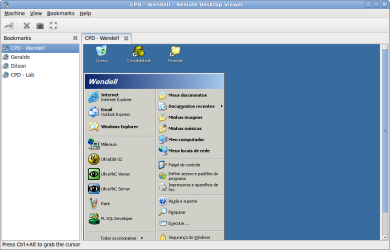
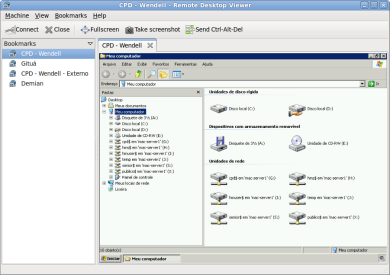
Updated vinagre website
svn path=/trunk/; revision=6334

diff --git a/www.gnome.org/projects/vinagre/screenshots.html b/www.gnome.org/projects/vinagre/screenshots.html
@@ -50,12 +50,13 @@
       <div class="rowOfBoxes">
         <div class="twoThirds noBorderOnLeft">
           <h1>Everybody likes screenshots!</h1>
-          <p><a href="vinagre1g.png"><img border="0" src="vinagre1p.png" alt="picture 1" /></a><br />
+
+          <p><a href="vinagre1g.png"><img border="0" src="vinagre1p.png" alt="picture 1" title="Click to enlarge" /></a><br />
             Vinagre connected to a windows machine
           </p>
 
-          <p><img border="0" src="vinagre2.png" alt="picture 2" /></a><br />
-            Connection dialog
+          <p><a href="vinagre6g.png"><img border="0" src="vinagre6p.png" alt="picture 6" title="Click to enlarge" /></a><br />
+            Full screen mode. Notice the toolbar at the top, which appears when you move the mouse to the top of the screen
           </p>
 
           <p><img border="0" src="vinagre3.png" alt="picture 3" /></a><br />
@@ -66,14 +67,18 @@
             Dialog asking for the vnc password
           </p>
 
+          <p><img border="0" src="vinagre5.png" alt="picture 5" /></a><br />
+            Panel applet allowing quick access to your bookmarks
+          </p>
+
         </div>
 
         <div class="oneThird">
           <h1>Latest News</h1>
 
-          <span class="newsHeading">0.5 version released</span>
-          <p class="newsDate">10 Mar 2008</p>
-          <p class="newsSummary">This is the version for GNOME 2.22.</p>
+          <span class="newsHeading">Version 2.24 released</span>
+          <p class="newsDate">23 Sep 2008</p>
+          <p class="newsSummary">This is the version for GNOME 2.24.</p>
 
           <span class="newsHeading">Report Bugs</span>
           <p class="newsDate">Yes, Vinagre has bugs!</p>

diff --git a/www.gnome.org/projects/vinagre/downloads.html b/www.gnome.org/projects/vinagre/downloads.html
@@ -51,8 +51,8 @@
         <div class="twoThirds noBorderOnLeft">
           <h1>Download Vinagre!</h1>
           <p><b>Latest:</b> <br />
-            Version 0.5, released at 10-Mar-2008 <br />
-            <a href="http://ftp.gnome.org/pub/GNOME/sources/vinagre/0.5/vinagre-0.5.0.tar.gz">vinagre-0.5.0.tar.gz</a>
+            Version 2.24.0, released at 22-Sep-2008 <br />
+            <a href="http://ftp.gnome.org/pub/GNOME/sources/vinagre/2.24/vinagre-2.24.0.tar.gz">vinagre-2.24.0.tar.gz</a>
           </p>
 
           <p><b>History:</b> <br />
@@ -79,9 +79,9 @@
         <div class="oneThird">
           <h1>Latest News</h1>
 
-          <span class="newsHeading">0.5 version released</span>
-          <p class="newsDate">10 Mar 2008</p>
-          <p class="newsSummary">This is the version for GNOME 2.22.</p>
+          <span class="newsHeading">Version 2.24 released</span>
+          <p class="newsDate">23 Sep 2008</p>
+          <p class="newsSummary">This is the version for GNOME 2.24.</p>
 
           <span class="newsHeading">Report Bugs</span>
           <p class="newsDate">Yes, Vinagre has bugs!</p>

diff --git a/www.gnome.org/projects/vinagre/about.html b/www.gnome.org/projects/vinagre/about.html
@@ -58,9 +58,9 @@
         <div class="oneThird">
           <h1>Latest News</h1>
 
-          <span class="newsHeading">0.5 version released</span>
-          <p class="newsDate">10 Mar 2008</p>
-          <p class="newsSummary">This is the version for GNOME 2.22.</p>
+          <span class="newsHeading">Version 2.24 released</span>
+          <p class="newsDate">23 Sep 2008</p>
+          <p class="newsSummary">This is the version for GNOME 2.24.</p>
 
           <span class="newsHeading">Report Bugs</span>
           <p class="newsDate">Yes, Vinagre has bugs!</p>

diff --git a/www.gnome.org/projects/vinagre/index.html b/www.gnome.org/projects/vinagre/index.html
@@ -65,9 +65,9 @@
         <div class="oneThird">
           <h1>Latest News</h1>
 
-          <span class="newsHeading">0.5 version released</span>
-          <p class="newsDate">10 Mar 2008</p>
-          <p class="newsSummary">This is the version for GNOME 2.22.</p>
+          <span class="newsHeading">Version 2.24 released</span>
+          <p class="newsDate">23 Sep 2008</p>
+          <p class="newsSummary">This is the version for GNOME 2.24.</p>
 
           <span class="newsHeading">Report Bugs</span>
           <p class="newsDate">Yes, Vinagre has bugs!</p>
